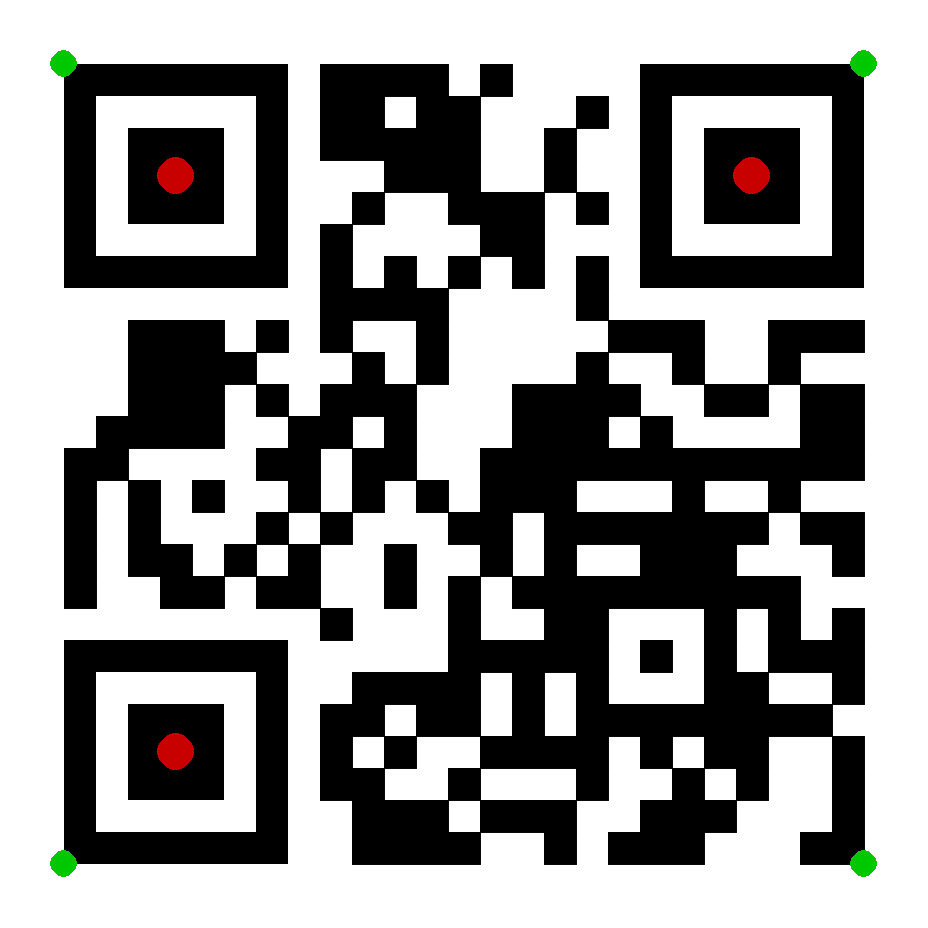
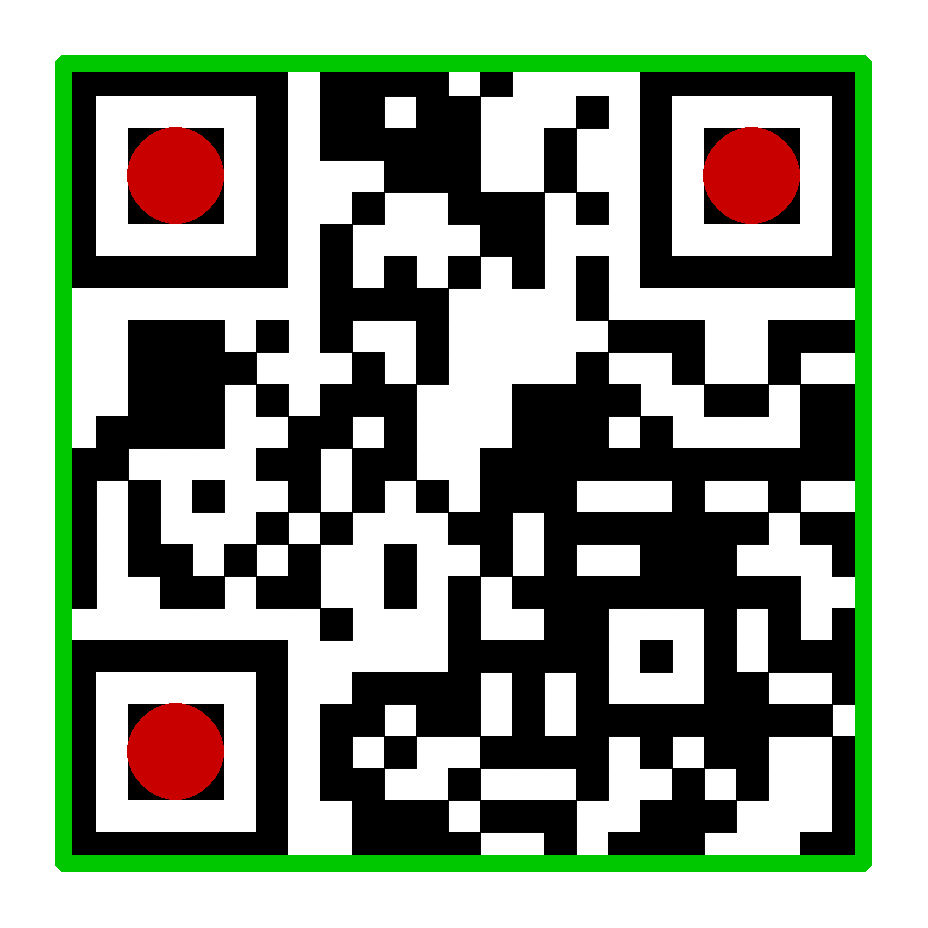
Rename draw_qr to qr_draw and scale markers to module size
Replace green corner disks with a green border quadrilateral connecting
the four detected corners. Red finder markers and border thickness now
scale with each QR code's module_size instead of a fixed image fraction.

diff --git a/src/cli.c b/src/cli.c
@@ -104,7 +104,7 @@ void print32_t_usage(const char *program_name) {
     "  border <hex_color> <border_width> - Add colored border around image\n"
   );
   printf("  qr              - Decode QR codes and output as JSON\n");
-  printf("  draw_qr         - Decode QR codes and draw corners + finders\n");
+  printf("  qr_draw         - Decode QR codes and draw border + finders\n");
   printf("  erode <radius>  - Binary erosion with disk structuring element\n");
   printf("  dilate <radius> - Binary dilation with disk structuring element\n");
   printf("  close <radius>  - Binary closing (dilation then erosion)\n");
@@ -1027,7 +1027,7 @@ uint8_t *apply_operation(
     }
     return result;
   }
-  else if (strcmp(operation, "draw_qr") == 0) {
+  else if (strcmp(operation, "qr_draw") == 0) {
     uint8_t *grayscale_data =
       fcv_rgba_to_grayscale(*width, *height, input_data);
     if (!grayscale_data) {
@@ -1044,53 +1044,51 @@ uint8_t *apply_operation(
     }
     memcpy(result, input_data, img_length_byte);
 
-    const double corner_radius = fmin(*width, *height) * 0.015;
-    const double finder_radius = fmin(*width, *height) * 0.020;
     const char *green = "00C800";
     const char *red = "C80000";
 
     for (size_t i = 0; i < qrs.count; i++) {
       FCVQRCode *qr = &qrs.codes[i];
-      fcv_draw_disk(
-        *width,
-        *height,
-        4,
-        green,
-        corner_radius,
+      double module = qr->module_size > 0 ? qr->module_size : 1.0;
+      double finder_radius = module * 1.5;
+      double border_thickness = fmax(1.0, module * 0.25);
+
+      double xs[4] = {
         qr->corners.tl_x,
-        qr->corners.tl_y,
-        result
-      );
-      fcv_draw_disk(
-        *width,
-        *height,
-        4,
-        green,
-        corner_radius,
         qr->corners.tr_x,
-        qr->corners.tr_y,
-        result
-      );
-      fcv_draw_disk(
-        *width,
-        *height,
-        4,
-        green,
-        corner_radius,
         qr->corners.br_x,
-        qr->corners.br_y,
-        result
-      );
-      fcv_draw_disk(
-        *width,
-        *height,
-        4,
-        green,
-        corner_radius,
         qr->corners.bl_x,
+      };
+      double ys[4] = {
+        qr->corners.tl_y,
+        qr->corners.tr_y,
+        qr->corners.br_y,
         qr->corners.bl_y,
-        result
-      );
+      };
+      for (int e = 0; e < 4; e++) {
+        int e2 = (e + 1) % 4;
+        double dx = xs[e2] - xs[e];
+        double dy = ys[e2] - ys[e];
+        double length = hypot(dx, dy);
+        int steps = (int)ceil(length);
+        if (steps < 1) {
+          steps = 1;
+        }
+        for (int s = 0; s <= steps; s++) {
+          double t = (double)s / (double)steps;
+          fcv_draw_disk(
+            *width,
+            *height,
+            4,
+            green,
+            border_thickness,
+            xs[e] + t * dx,
+            ys[e] + t * dy,
+            result
+          );
+        }
+      }
+
       for (int f = 0; f < 3; f++) {
         fcv_draw_disk(
           *width,

diff --git a/tests/cli/qr-code.md b/tests/cli/qr-code.md
@@ -37,14 +37,15 @@ Applying operation: qr
 
 ### Draw Detected QR Codes
 
-Draw disks at the four boundary corners (green) and the three
-finder pattern centers (red).
+Draw the QR code border (green) connecting the four boundary corners
+and disks at the three finder pattern centers (red).
+Marker sizes are scaled to the QR code's module size.
 
 ```scrut
-$ ./flatcv imgs/qr_hello.jpeg draw_qr imgs/qr_hello_annotated.png
+$ ./flatcv imgs/qr_hello.jpeg qr_draw imgs/qr_hello_annotated.png
 Loaded image: 928x928 with 1 channels
 Executing pipeline with 1 operations:
-Applying operation: draw_qr
+Applying operation: qr_draw
   → Completed in \d+.\d+ ms \(output: 928x928\) (regex)
 Final output dimensions: 928x928
 Successfully saved processed image to 'imgs/qr_hello_annotated.png'
